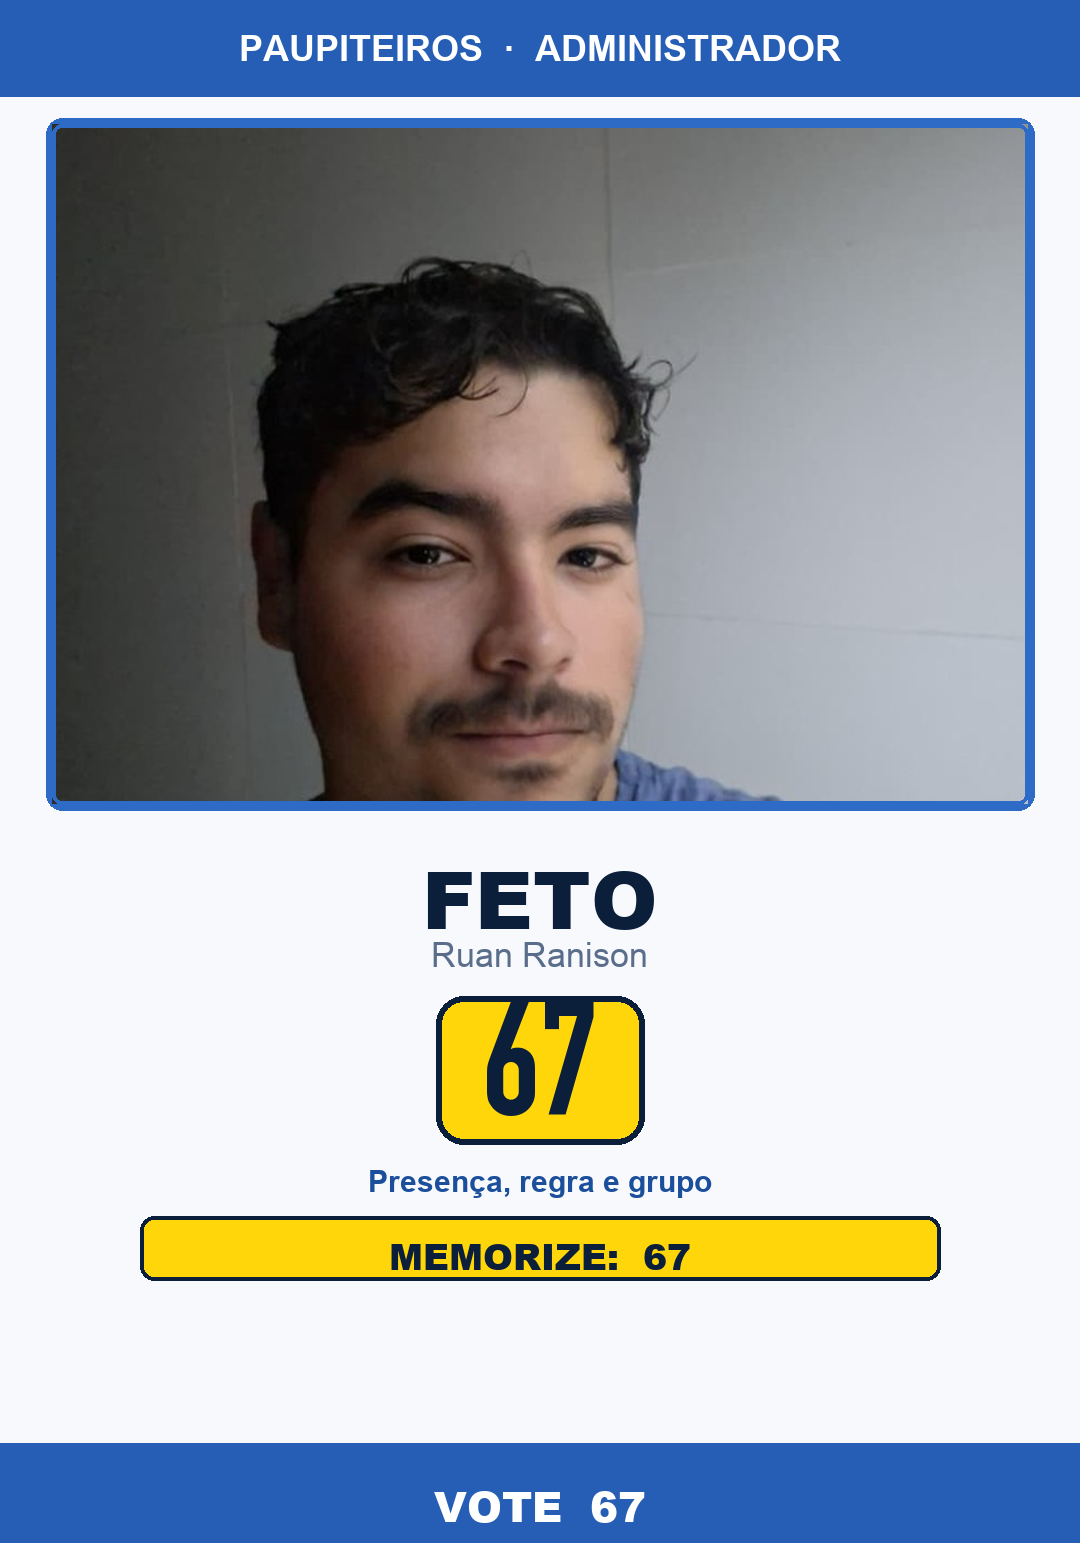
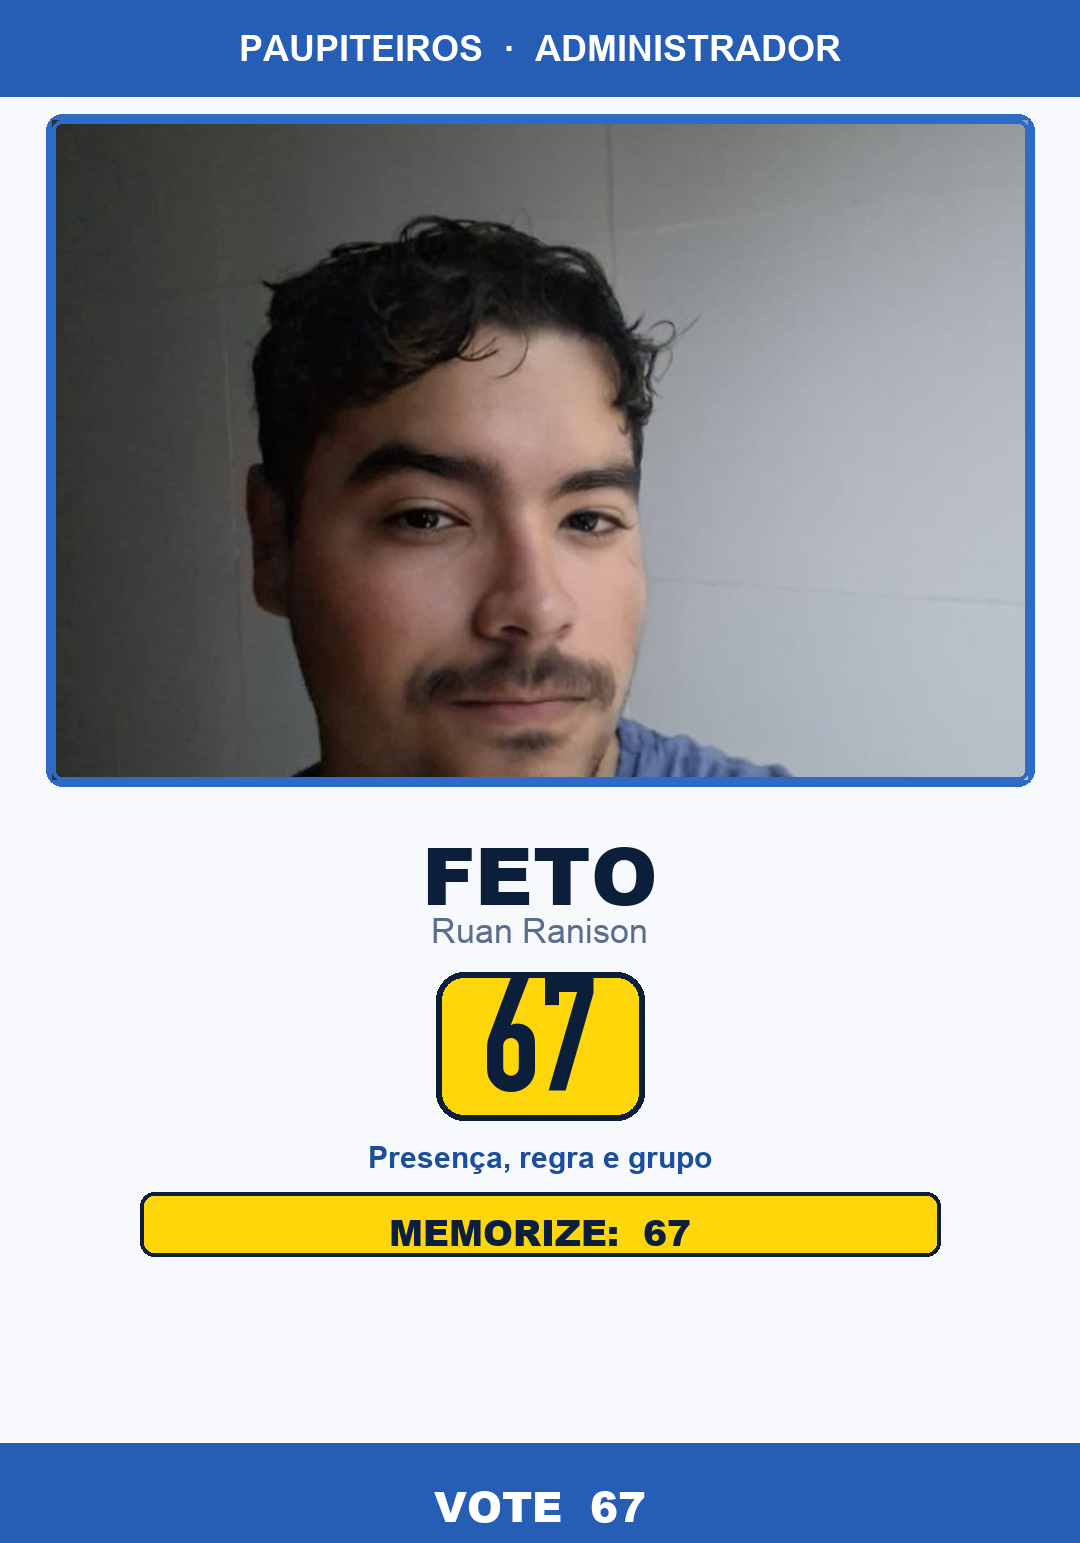
fix: moldura mais alta para caber os 3 rostos inteiros

Changed region(s): [[0.0306, 0.1244, 0.9778, 0.8399], [0.0611, 0.0622, 0.9472, 0.0933], [0.2139, 0.3733, 0.275, 0.4355]]

diff --git a/scripts/gerar_santinhos.py b/scripts/gerar_santinhos.py
@@ -126,15 +126,14 @@ def make_frente(photo_path: Path, out_path: Path, *, nova: bool):
 
     # Foto: grupo = enquadramento aberto (3 rostos); solo = close
     margin = 52
-    photo_top = 124
-    photo_h = 640 if nova else 680
+    photo_top = 120
+    # Grupo: moldura mais alta pra caber testa→queixo dos 3
+    photo_h = 700 if nova else 660
     pw, ph = W - 2 * margin, photo_h
     if nova:
-        # Trio completo: começa perto do topo da foto (não cortar testa)
-        crop = face_crop(photo, pw, ph, focus=(0.50, 0.34), zoom=1.0, anchor=0.40)
+        crop = face_crop(photo, pw, ph, focus=(0.50, 0.42), zoom=1.0, anchor=0.45)
     else:
-        # Solo: leve close, testa e ombros visíveis
-        crop = face_crop(photo, pw, ph, focus=(0.50, 0.40), zoom=1.08, anchor=0.34)
+        crop = face_crop(photo, pw, ph, focus=(0.50, 0.42), zoom=1.10, anchor=0.34)
 
     frame = (margin - 6, photo_top - 6, margin + pw + 6, photo_top + ph + 6)
     draw.rounded_rectangle(frame, radius=16, fill=WHITE, outline=BLUE_BRIGHT, width=7)
